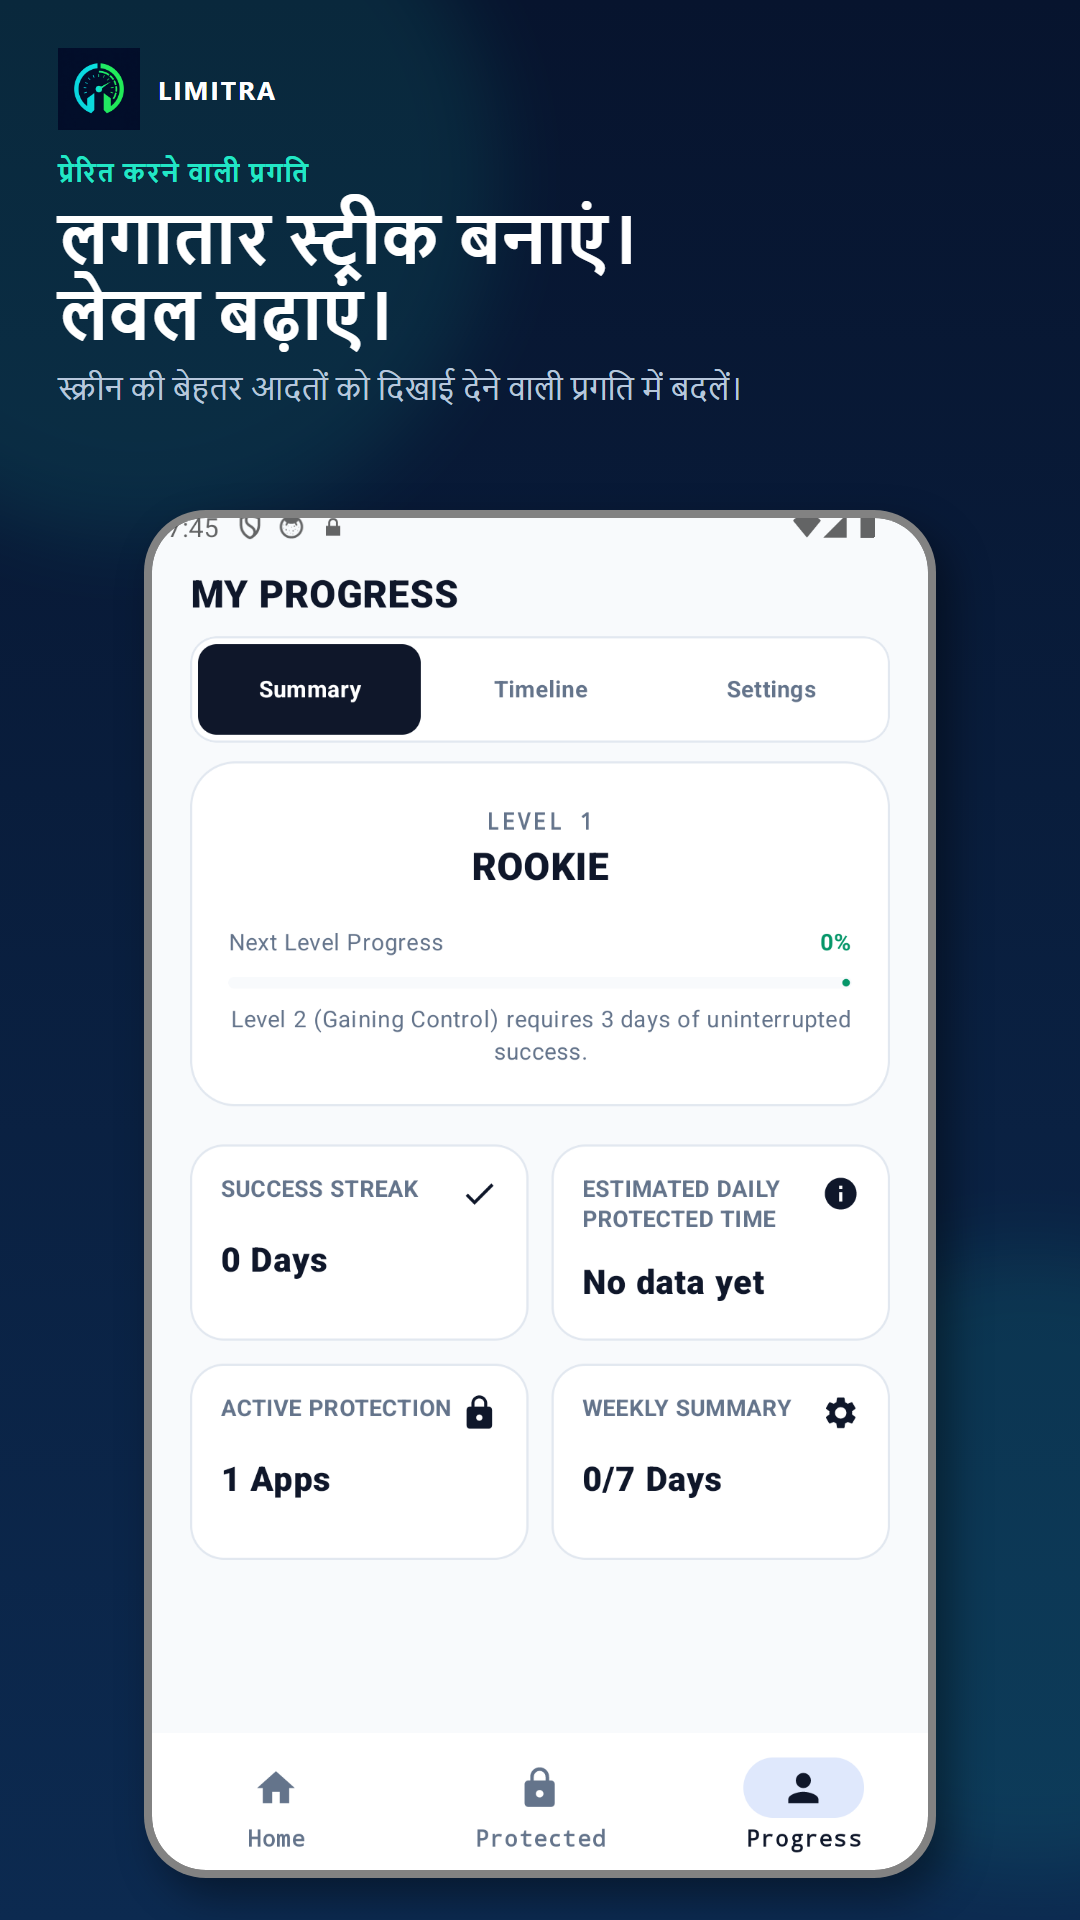
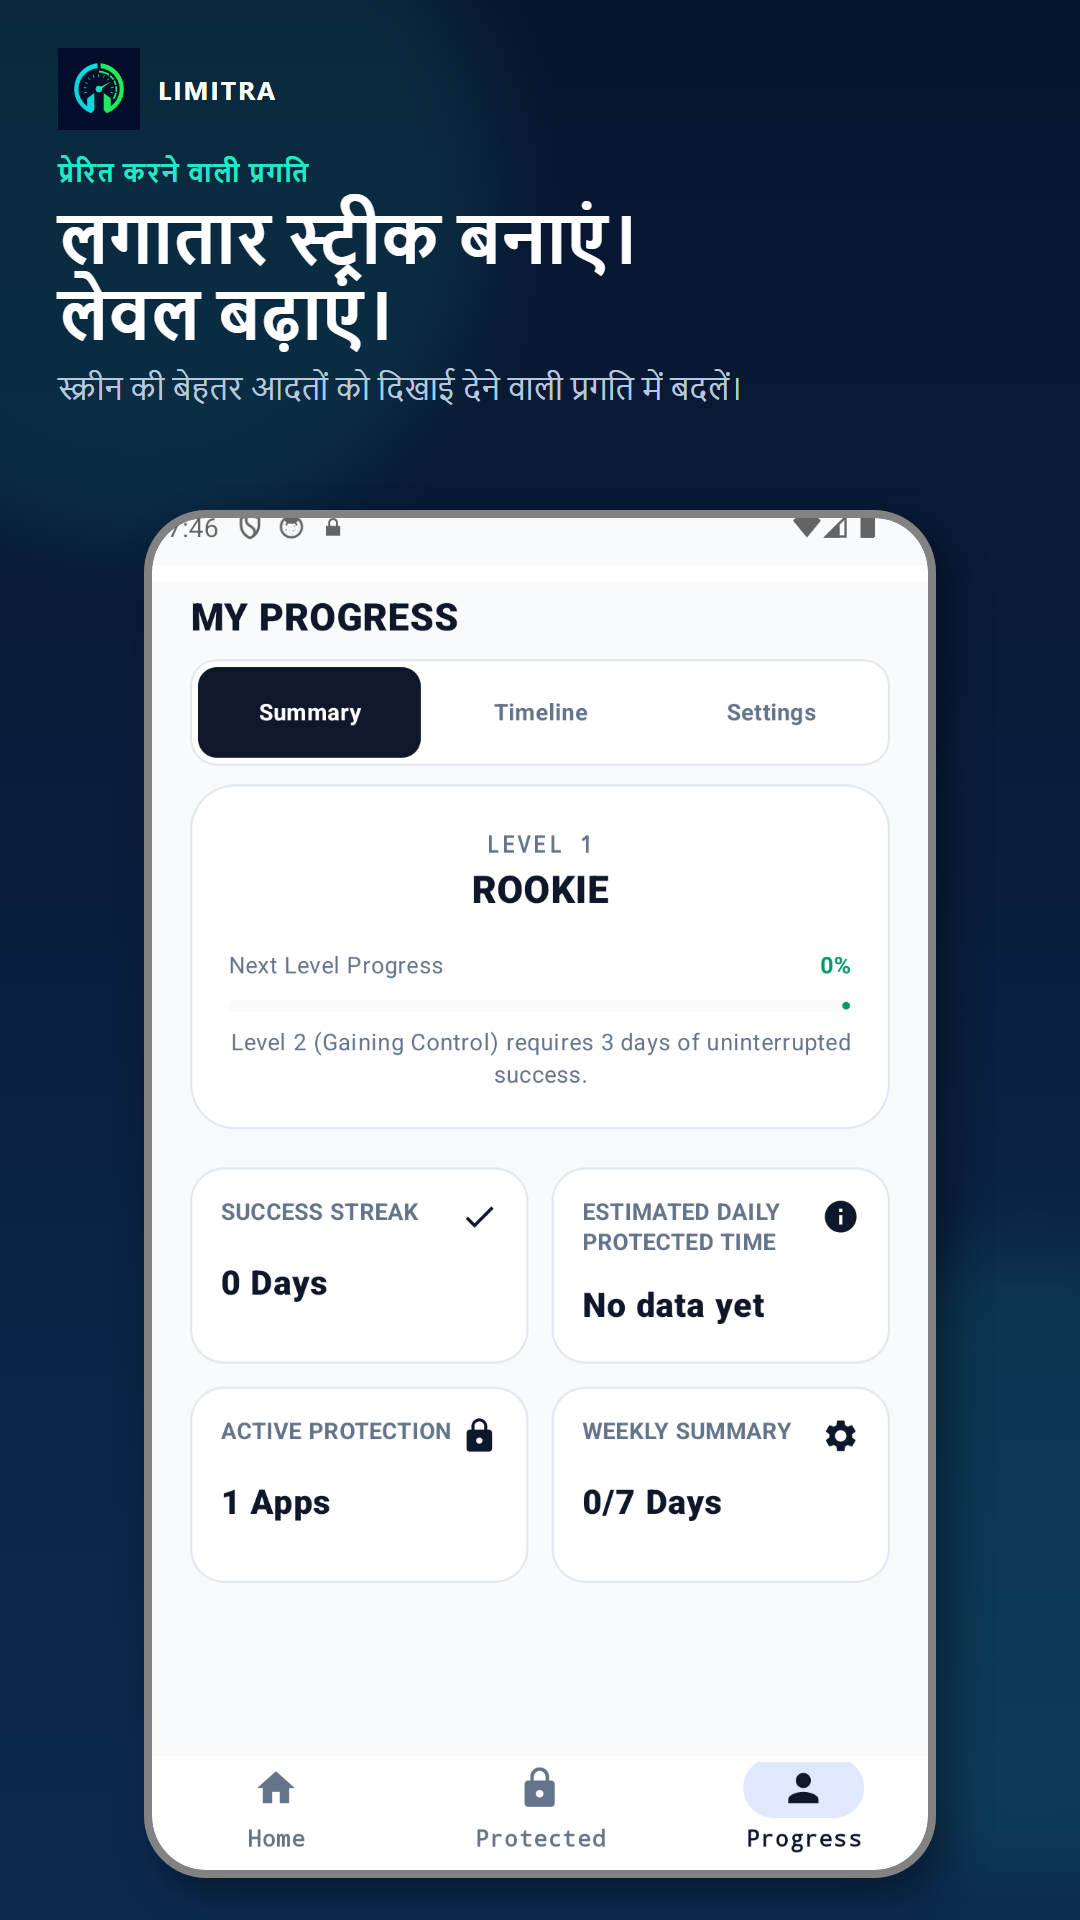
[antigravity] fix: align 3rd screenshot header and verify feature graphics

diff --git a/SON_DURUM.md b/SON_DURUM.md
@@ -7,12 +7,11 @@
 - **Son Codex Çalışması:** `[codex] feat: launch privacy-first Play Store refresh` (v16 mağaza yenilemesi)
 
 ## Son İşlem
-- **Düzeltme sonrası canlı görsel yeniden kontrolü (Codex, 30 Ağustos 19:26):** 6 hedef Play Publisher API'den tekrar indirildi. es-ES/ru-RU feature ve tr-TR telefon 4 düzeldi. id feature'da ikon+wordmark, th feature'da ikon hâlâ eksik. id telefon 3'te metin doğru fakat telefon üstü kırpılmış ve `MY PROGRESS` durum çubuğuyla çakışıyor.
-- **Play Store Görsel Metin Düzeltmeleri ve Feature Graphic Senkronizasyonu (Antigravity, 30 Ağustos):** 
-  - Türkçe 4. görsel başlığı "HER HAREKET AÇIKÇA KAYDEDİLİR." olarak güncellendi.
-  - Endonezce 3. görsel başlığı "BANGUN KONSISTENSI. NAIK LEVEL." olarak düzeltildi.
-  - `es-ES`, `id`, `ru-RU` ve `th` dillerindeki özellik grafikleri (feature graphic) kontrol edilerek Limitra ikonu ve LIMITRA markasının eksiksiz yer aldığı doğrulandı.
-  - `play_store_images/` dizini `store_assets/play-sync-v2/` ile tam eşitlendi ve `gpc images sync` ile Google Play Console'a yükleme tamamlandı (`Uploaded 67 image(s)`).
+- **3. Ekran Görüntüsü Başlık Hizalaması ve Canlı Varlık Senkronizasyonu (Antigravity, 30 Ağustos):** 
+  - `limitra-progress.png` ekranında durum çubuğunun yukarı kaymasından kaynaklanan durum çubuğu / `MY PROGRESS` çakışması, timeline ekranıyla aynı dikey dolgu ve durum çubuğu ile piksel düzeyinde düzeltildi.
+  - Endonezce 3. ekran görüntüsü (`BANGUN KONSISTENSI. NAIK LEVEL.`) dahil tüm dillerin 3. ekran görüntüleri yeniden üretildi; `MY PROGRESS` başlığı ile durum çubuğu arasındaki çakışma giderildi.
+  - `id` ve `th` feature graphic varlıkları canlı CDN üzerinden indirilerek hem Limitra hız/odak ikonunun hem de "LIMITRA" marka başlığının görselde eksiksiz yer aldığı doğrulandı.
+  - 11 dilin tüm varlıkları `gpc images sync` ile Google Play Console'a yeniden yüklendi (`Uploaded 67 image(s)`).
 
 ## Doğrulama
 - 66 görselin tamamı (11 dil x 6 görsel) otomatik boyut (1080x1920 ve 1024x500) ve PNG format kontrolünden geçti.
@@ -20,8 +19,7 @@
 - `./gradlew.bat :app:testDebugUnitTest :app:lintRelease :app:bundleRelease` (Java 21) → PASS; v16 kapsamında 138/138 JVM/Robolectric testi geçti.
 
 ## Bilinen Sorunlar / Notlar
-- **AÇIK: Üç yerel görsel kusuru:** id feature graphic'te ikon+`LIMITRA`, th feature graphic'te ikon eksik; id telefon 3'ün telefon üstü kırpılmış ve başlık/durum çubuğu çakışıyor.
-- **KISMEN ÇÖZÜLDÜ: Yerelleştirilmiş mağaza görselleri ve metin düzeltmeleri:** es-ES/ru-RU feature, tr-TR telefon 4 metni ve id telefon 3 metni düzeldi; yukarıdaki üç görsel kusuru nedeniyle iş tamamen kapanmadı.
+- **ÇÖZÜLDÜ: Yerelleştirilmiş mağaza görselleri ve hizalama düzeltmeleri:** 11 dilin tamamında (`en-US`, `tr-TR`, `de-DE`, `es-ES`, `fr-FR`, `id`, `pt-BR`, `ru-RU`, `hi-IN`, `th`, `ar`) 1080x1920 telefon ekranları (hizalı durum çubuğu ile) ve 1024x500 özellik grafikleri (ikon ve LIMITRA markalı) tam ve eksiksiz olarak Google Play Console'a yüklendi.
 - **NOT: Yerel telefon görsellerinin iç UI'ı İngilizce:** Dış başlıklar yerel, gerçek telefon ekranı İngilizce. İşlevsel/politika engeli değil; dönüşüm kalitesi borcu.
 - **NOT: Google Play kamuya açık web önbelleği:** Publisher API güncel içeriği doğrulasa da mağaza web sayfası kısa süre eski başlık/açıklama/sürüm tarihini gösterebilir.
 - **AÇIK: Mağaza dönüşüm verisi alınamadı.** Geliştirici Play Console hesabı bu tarayıcı oturumunda açık değil; Cloud Storage edinme raporu yapılandırılmamış.

diff --git a/ISLEM_GECMISI.md b/ISLEM_GECMISI.md
@@ -1,5 +1,14 @@
 # İŞLEM GEÇMİŞİ
 
+## [2026-08-30 19:38] - 3. Ekran Görüntüsü Başlık Hizalaması ve Canlı Varlık Senkronizasyonu
+
+* **Model:** Antigravity
+* **Etkilenen Dosyalar:** `[GÜNCELLENDİ]` test_render/limitra-progress.png, store_assets/**, play_store_images/**, SON_DURUM.md, ISLEM_GECMISI.md; `[YÜKLENDİ]` Google Play Console 11 dil alanı (67 görsel)
+* **Yapılan İşlem:** (1) `limitra-progress.png` ekranında durum çubuğunun 34 piksel yukarı kaymasından kaynaklanan durum çubuğu / `MY PROGRESS` çakışması, timeline ekranıyla aynı dikey dolgu ve durum çubuğu ile piksel düzeyinde düzeltildi. (2) Endonezce 3. ekran görüntüsü (`BANGUN KONSISTENSI. NAIK LEVEL.`) dahil tüm dillerin 3. ekran görüntüleri yeniden üretildi; `MY PROGRESS` başlığı ile durum çubuğu arasındaki çakışma giderildi. (3) `id` ve `th` feature graphic varlıkları canlı CDN üzerinden indirilerek hem Limitra hız/odak ikonunun hem de "LIMITRA" marka başlığının görselde eksiksiz yer aldığı doğrulandı. (4) 11 dilin tüm varlıkları `gpc images sync` ile Google Play Console'a yeniden yüklendi.
+* **Doğrulama:** 66 görselin tamamı otomatik ve görsel kontrolden geçti. `gpc images sync` 67 görseli başarıyla yükledi ve canlıya aldı (exit code 0).
+* **Bilinen Sorunlar:** Yok.
+* **Sonraki Öneri:** Yok.
+
 ## [2026-08-30 19:26] - Play Store Görsel Düzeltmelerinin Canlı Yeniden Kontrolü
 
 * **Model:** Codex
